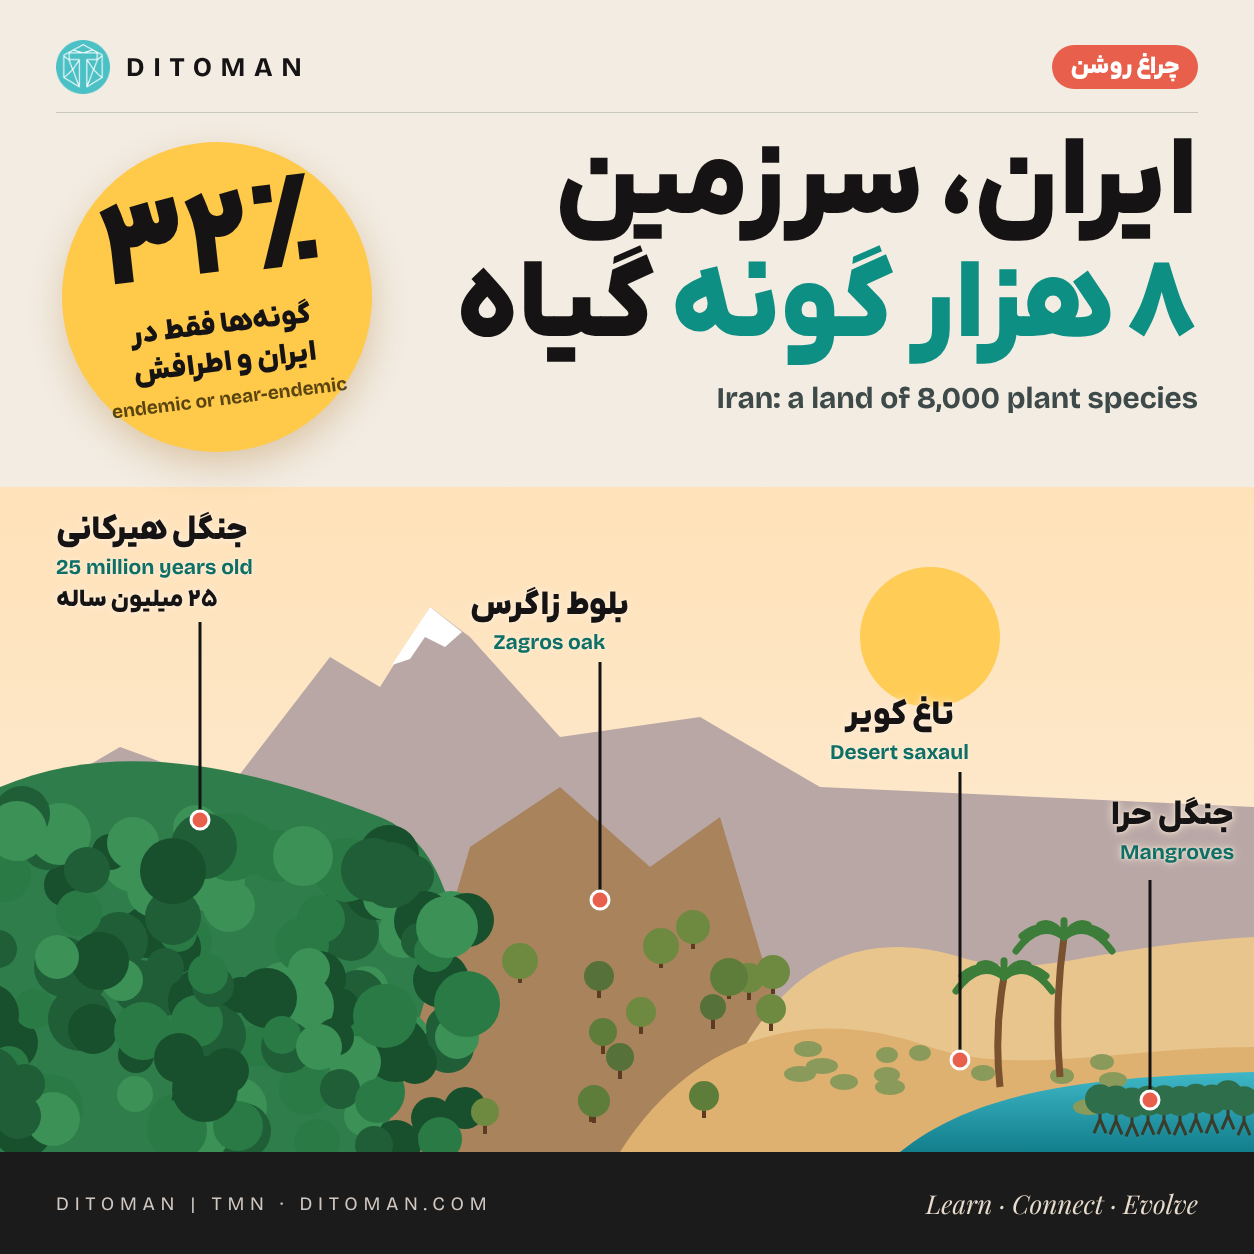
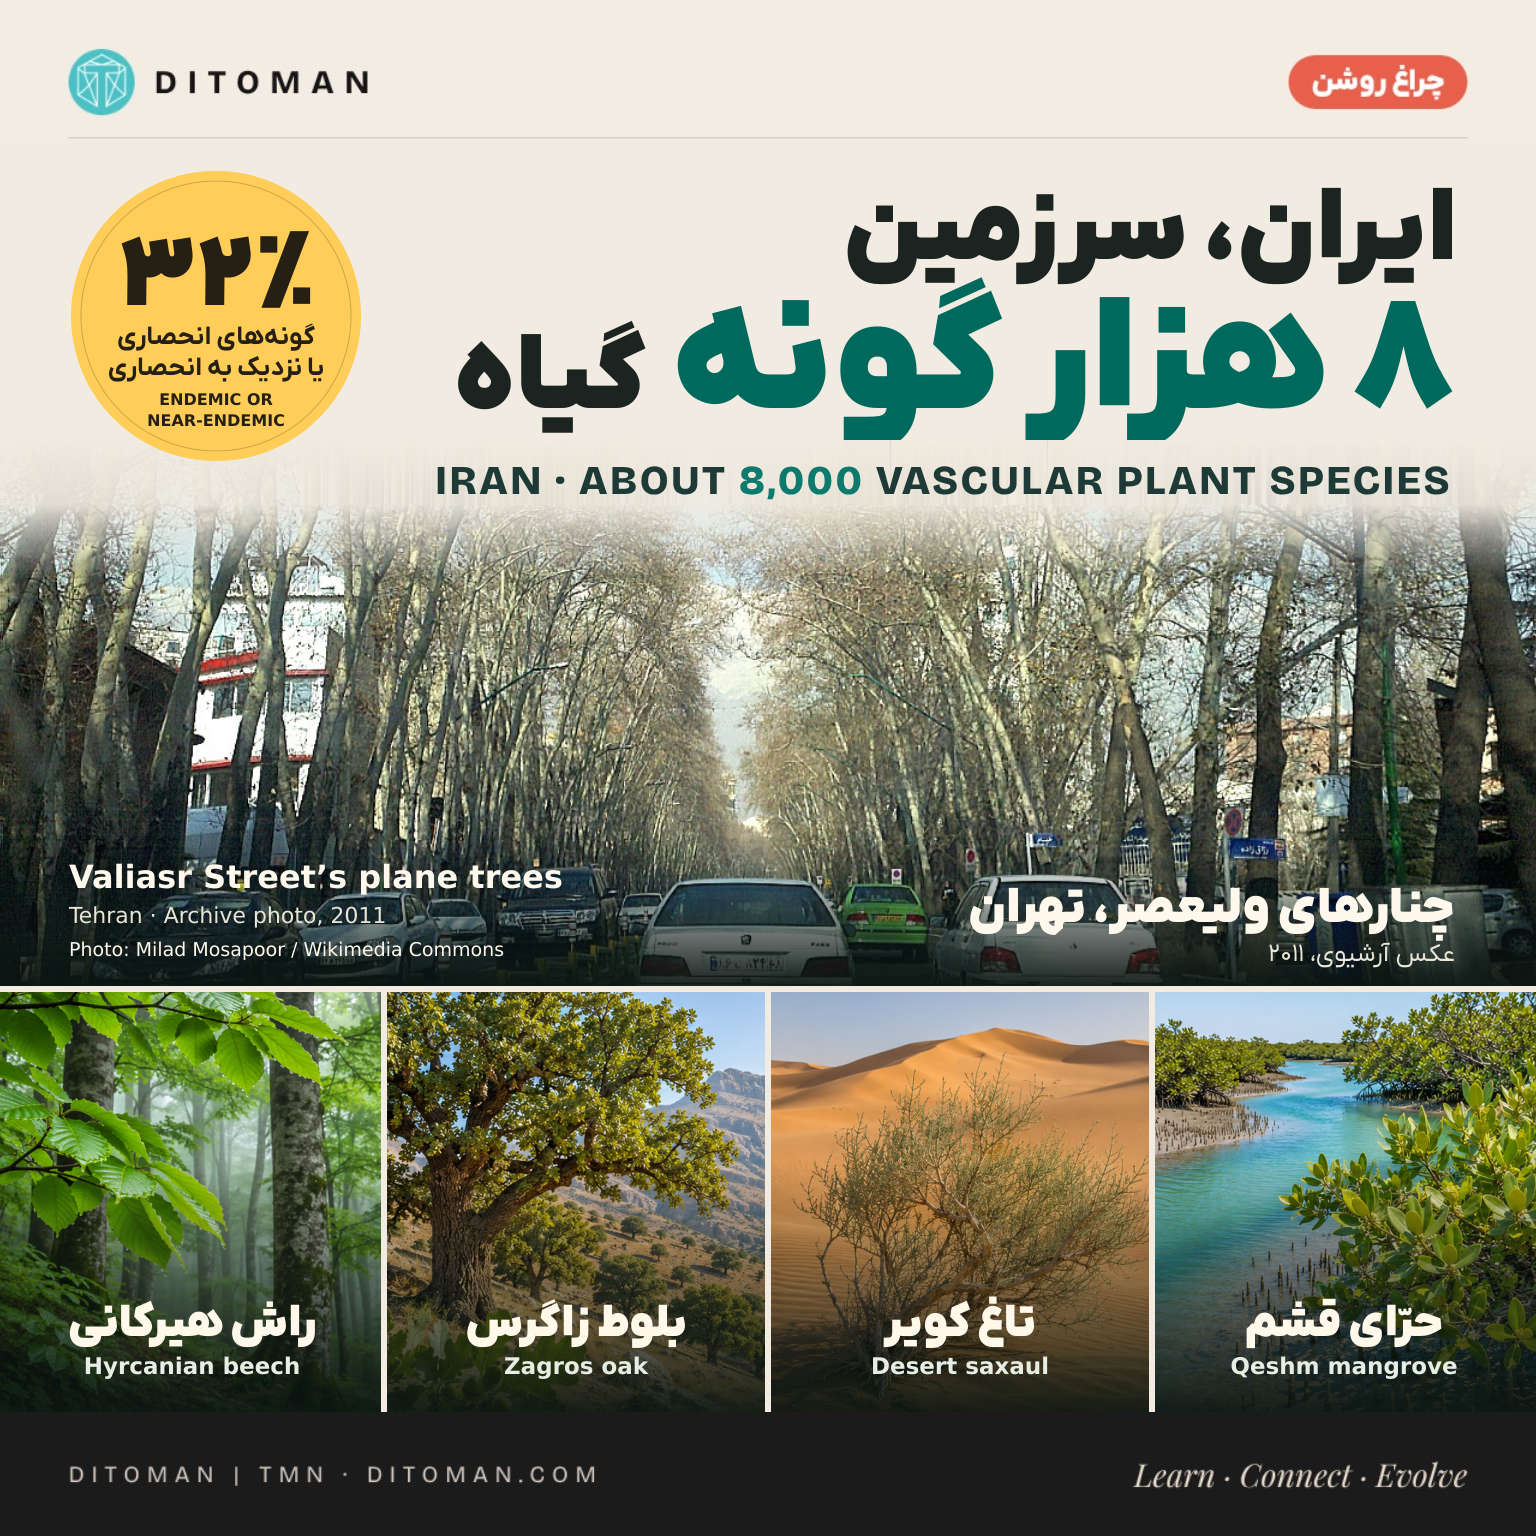
Publish Iran trees special report with final cover; Telegram two-part post
Claude-Session: https://claude.ai/code/session_012uZ8KiEEJt1CcpRZeg7KSX

diff --git a/iran-trees.html b/iran-trees.html
@@ -328,25 +328,30 @@ padding: 24px;
 <!-- seo:start -->
 <link rel="canonical" href="https://ditoman.com/iran-trees.html" />
 <link rel="icon" href="ditoman-logo.png" />
-<meta property="og:type" content="website" />
+<meta property="og:type" content="article" />
 <meta property="og:site_name" content="Ditoman" />
 <meta property="og:title" content="Iran in the Mirror of Its Trees | ایران در آینهی درختان | Ditoman" />
 <meta property="og:description" content="۸٬۱۱۲ گونهی گیاهی، جنگل ۲۵ میلیونسالهی هیرکانی، بلوط زاگرس و حرای قشم؛ صد سال تغییر، اقتصاد درخت و گیاه، مقایسه با همسایهها و ۲۱ شرکت. Iran&#x27;s trees and plants: diversity, change, economy and neighbours." />
 <meta property="og:url" content="https://ditoman.com/iran-trees.html" />
-<meta property="og:image" content="https://ditoman.com/og-image.jpg" />
+<meta property="og:image" content="https://ditoman.com/social/iran-trees/post.png" />
 <meta name="twitter:card" content="summary_large_image" />
 <script type="application/ld+json">
 {
  "@context": "https://schema.org",
  "@graph": [
   {
-   "@type": "WebPage",
-   "@id": "https://ditoman.com/iran-trees.html#page",
-   "url": "https://ditoman.com/iran-trees.html",
-   "name": "Iran in the Mirror of Its Trees | ایران در آینهی درختان | Ditoman",
+   "@type": "Article",
+   "@id": "https://ditoman.com/iran-trees.html#article",
+   "mainEntityOfPage": "https://ditoman.com/iran-trees.html",
+   "headline": "Iran in the Mirror of Its Trees | ایران در آینهی درختان",
    "description": "۸٬۱۱۲ گونهی گیاهی، جنگل ۲۵ میلیونسالهی هیرکانی، بلوط زاگرس و حرای قشم؛ صد سال تغییر، اقتصاد درخت و گیاه، مقایسه با همسایهها و ۲۱ شرکت. Iran's trees and plants: diversity, change, economy and neighbours.",
-   "isPartOf": {
-    "@id": "https://ditoman.com/#website"
+   "image": "https://ditoman.com/social/iran-trees/post.png",
+   "inLanguage": [
+    "fa",
+    "en"
+   ],
+   "author": {
+    "@id": "https://ditoman.com/#organization"
    },
    "publisher": {
     "@type": "Organization",
@@ -369,7 +374,8 @@ padding: 24px;
      "https://www.instagram.com/ditoman.tmn/",
      "https://t.me/Ditoman_tm"
     ]
-   }
+   },
+   "datePublished": "2026-11-09"
   },
   {
    "@type": "BreadcrumbList",
@@ -1121,7 +1127,7 @@ html[data-lang="fa"] .hero .container,html[data-lang="fa"] .instagram-box{direct
 <li>صادرات مبلمان و صنایع چوب. <a href="https://ana.ir/en/news/9568/irans-q1-furniture-exports-hit-15-million-dollars" target="_blank" rel="noopener">ANA</a>  </li>
 <li>ارزش خدمات بومسازگان جنگلهای مازندران. <a href="https://ijaedr.ut.ac.ir/article_101500_en.html" target="_blank" rel="noopener">دانشگاه تهران</a>  </li>
 </ol>
-<p style="color:#9fb6b9;margin-top:10px">تصویر کاور و نقاشی چشمانداز: تصویرسازی. آخرین بازبینی: ۱۸ آبان ۱۴۰۵</p>
+<p style="color:#9fb6b9;margin-top:10px">کاور: عکس چنارهای ولیعصر از Milad Mosapoor، ویکیمدیا (۲۰۱۱)؛ تصاویر پایین کاور و نقاشی چشمانداز، تصویر نمونهاند. آخرین بازبینی: ۱۸ آبان ۱۴۰۵</p>
 </div>
 <div class="lesson-content en" id="en-content" style="display:none">
 <p><strong>If you had to describe your city with one tree, which would you choose?</strong></p>
@@ -1263,7 +1269,7 @@ html[data-lang="fa"] .hero .container,html[data-lang="fa"] .instagram-box{direct
 <h3>8. Ditoman's reading</h3>
 <p>In one country, Iran holds a 25-million-year-old humid forest, mountain oak woodland, steppe, desert scrub and mangroves. That diversity makes medicine, food and jobs, and holds water and soil in place. After decades of loss, the northern forests have stabilised, and rural gas, wood farming, herbal processing and plant exports point to hopeful paths. Keeping this capital starts with the plane tree on our own street. We follow it together.</p>
 <p>Full sources are listed in the Persian version.</p>
-<p style="color:#9fb6b9;margin-top:10px">Cover and landscape: illustrations. Last reviewed 9 November 2026.</p>
+<p style="color:#9fb6b9;margin-top:10px">Cover: Valiasr plane trees by Milad Mosapoor, Wikimedia Commons (2011); lower cover images and landscape are illustrative. Last reviewed 9 November 2026.</p>
 </div>
 </div>
 </section>

diff --git a/index.html b/index.html
@@ -545,6 +545,15 @@
           <p>Iranian industry, new technology and what they mean for the future.</p>
         </div>
         <div class="co-grid story-grid">
+          <a class="co-card" href="iran-trees.html">
+            <div class="co-art"><img src="social/iran-trees/post.png" alt="Iran in the mirror of its trees" loading="lazy" /></div>
+            <div class="co-body">
+              <h3>Iran in the Mirror of Its Trees <span lang="fa">ایران در آینهی درختان</span></h3>
+              <p>8,112 plant species, a century of change, the economy of trees and plants, Iran beside its neighbours, and 21 companies.</p>
+              <p class="co-fa" lang="fa">۸٬۱۱۲ گونهی گیاهی، صد سال تغییر، اقتصاد درخت و گیاه، مقایسه با همسایهها و ۲۱ شرکت.</p>
+              <span class="co-go">Read the story</span>
+            </div>
+          </a>
           <a class="co-card" href="news-readers.html">
             <div class="co-art"><img src="social/news-readers/post.png" alt="Where do Iranians get their news?" loading="lazy" /></div>
             <div class="co-body">

diff --git a/scripts/build_seo.py b/scripts/build_seo.py
@@ -11,7 +11,7 @@ ROOT = pathlib.Path(__file__).resolve().parent.parent
 BASE = "https://ditoman.com/"
 START, END = "<!-- seo:start -->", "<!-- seo:end -->"
 SKIP = {"404.html"}
-ARTICLES = {"news-readers.html", "iran-vehicles.html", "fateh-reactor.html", "iran-built.html", "cinnagen.html", "iran-zinc.html", "morvarid-eo.html", "hangang.html", "staying-in.html", "pistachio-ai.html", "sina-surgical-robot.html"}
+ARTICLES = {"iran-trees.html", "news-readers.html", "iran-vehicles.html", "fateh-reactor.html", "iran-built.html", "cinnagen.html", "iran-zinc.html", "morvarid-eo.html", "hangang.html", "staying-in.html", "pistachio-ai.html", "sina-surgical-robot.html"}
 # Pages whose content comes from data files that robots update.
 DATA_SOURCES = {"posts.html": ["telegram/feed.json"], "prices.html": ["market"], "calendar.html": ["calendar"]}
 PDFS = ["whitepaper-v5.pdf", "whitepaper-v5-fa.pdf"]

diff --git a/telegram/2026-11-09-10-iran-trees-2.md b/telegram/2026-11-09-10-iran-trees-2.md
@@ -31,4 +31,6 @@
 
 📸 اسم شهرت و درختی را که با آن خاطره داری بنویس؛ اگر عکس داری، بفرست 👇
 
+کاور: عکس چنارهای ولیعصر از Milad Mosapoor، ویکیمدیا؛ تصاویر پایین، تصویر نمونه
+
 #چراغ_روشن #طبیعت_ایران #درخت #اقتصاد_سبز #دیتومان
